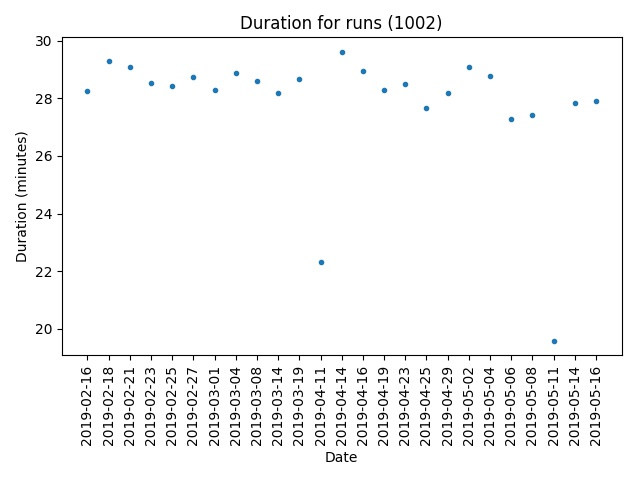
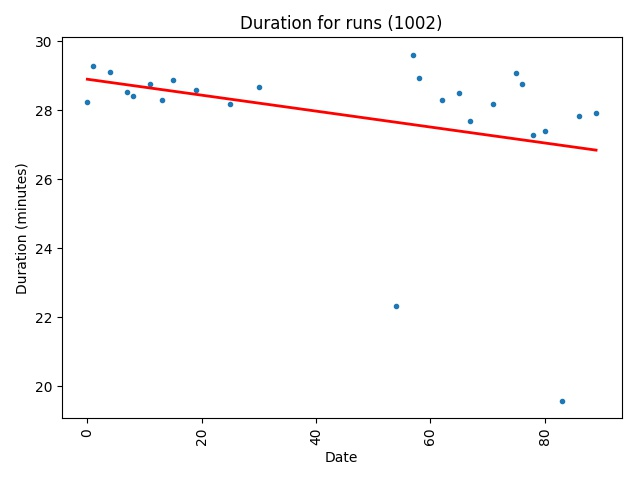
added linear regression

diff --git a/exercise/running.py b/exercise/running.py
@@ -3,6 +3,8 @@
 import pandas as pd
 import matplotlib.pyplot as plt
 import re
+from sklearn.linear_model import LinearRegression
+import numpy as np
 
 
 def main():
@@ -20,8 +22,8 @@ def main():
 	# select rows after February 16, 2019 (when full 5 kilometer distance was run)
 	running = running.loc[running['start_time'] > '2019-02-16 00:00:00.000']
 	
-	mean_speed(running)
-	distance(running)
+	#mean_speed(running)
+	#distance(running)
 	duration(running)
 
 
@@ -75,17 +77,45 @@ def distance(running):
 def duration(running):
 	''' Plots duration of runs'''
 
-	# slice the start time column and keep the date, but not the time
-	x = running['start_time'].str.split(' ').str[0]
+	# reset the dataframe's index
+	running = running.reset_index(drop=True)
+
+	# convert to datetime format
+	dates = pd.to_datetime(running['start_time'])
+
+	# calculate the number of days from start to finish of sample
+	total_days = dates.iloc[-1] - dates.iloc[0]
 	
+	# create new series calculating the difference between each sample and the start date
+	x = (dates - dates.iloc[0]).dt.days
+
 	# slice the duration column
 	y = running['duration']
     
 	# convert milliseconds to minutes
 	y = y / 1000 / 60
 
+	# Create the regressor: reg
+	reg = LinearRegression()
+	
+	# Create the prediction space
+	prediction_space = np.linspace(x.iloc[0], x.iloc[-1], total_days.days).reshape(-1, 1)
+
+	# convert x to numpy array (matrix) and reshape
+	x = x.values.reshape(-1, 1)
+
+	# Fit the model to the data
+	reg.fit(x, y)
+
+	# Compute predictions over the prediction space: y_pred
+	y_pred = reg.predict(prediction_space)
+
+	# Print R^2
+	print(reg.score(x, y))
+
 	# make a plot
 	plt.plot(x, y, linestyle='none', marker='.')
+	plt.plot(prediction_space, y_pred, color='red', linewidth=2)
 	plt.title('Duration for runs (1002)')
 	plt.xlabel('Date')
 	plt.ylabel('Duration (minutes)')
